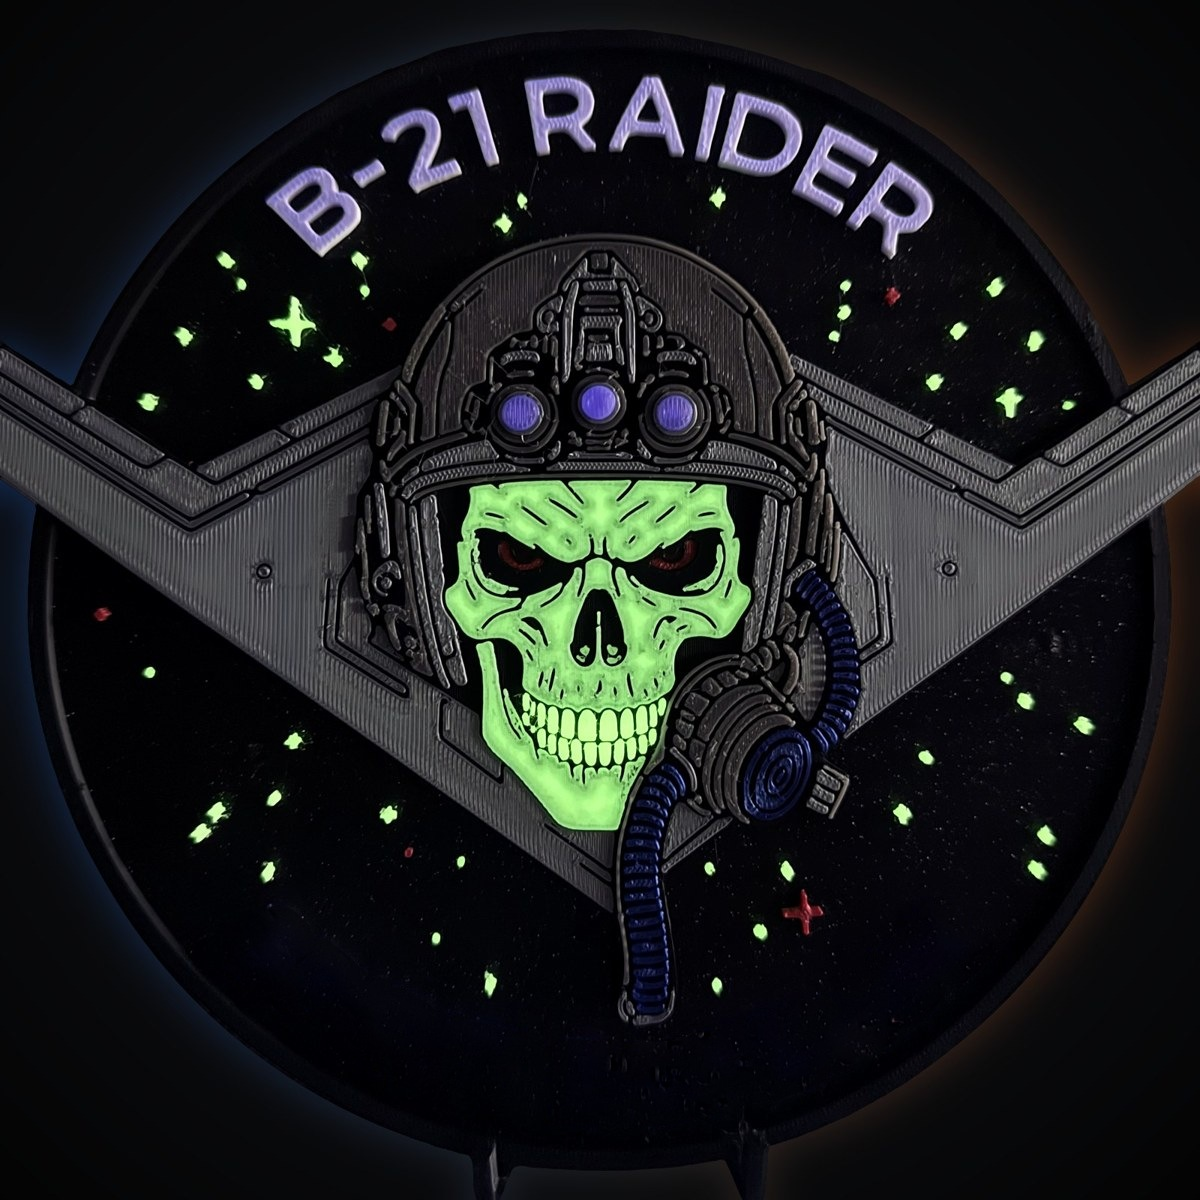
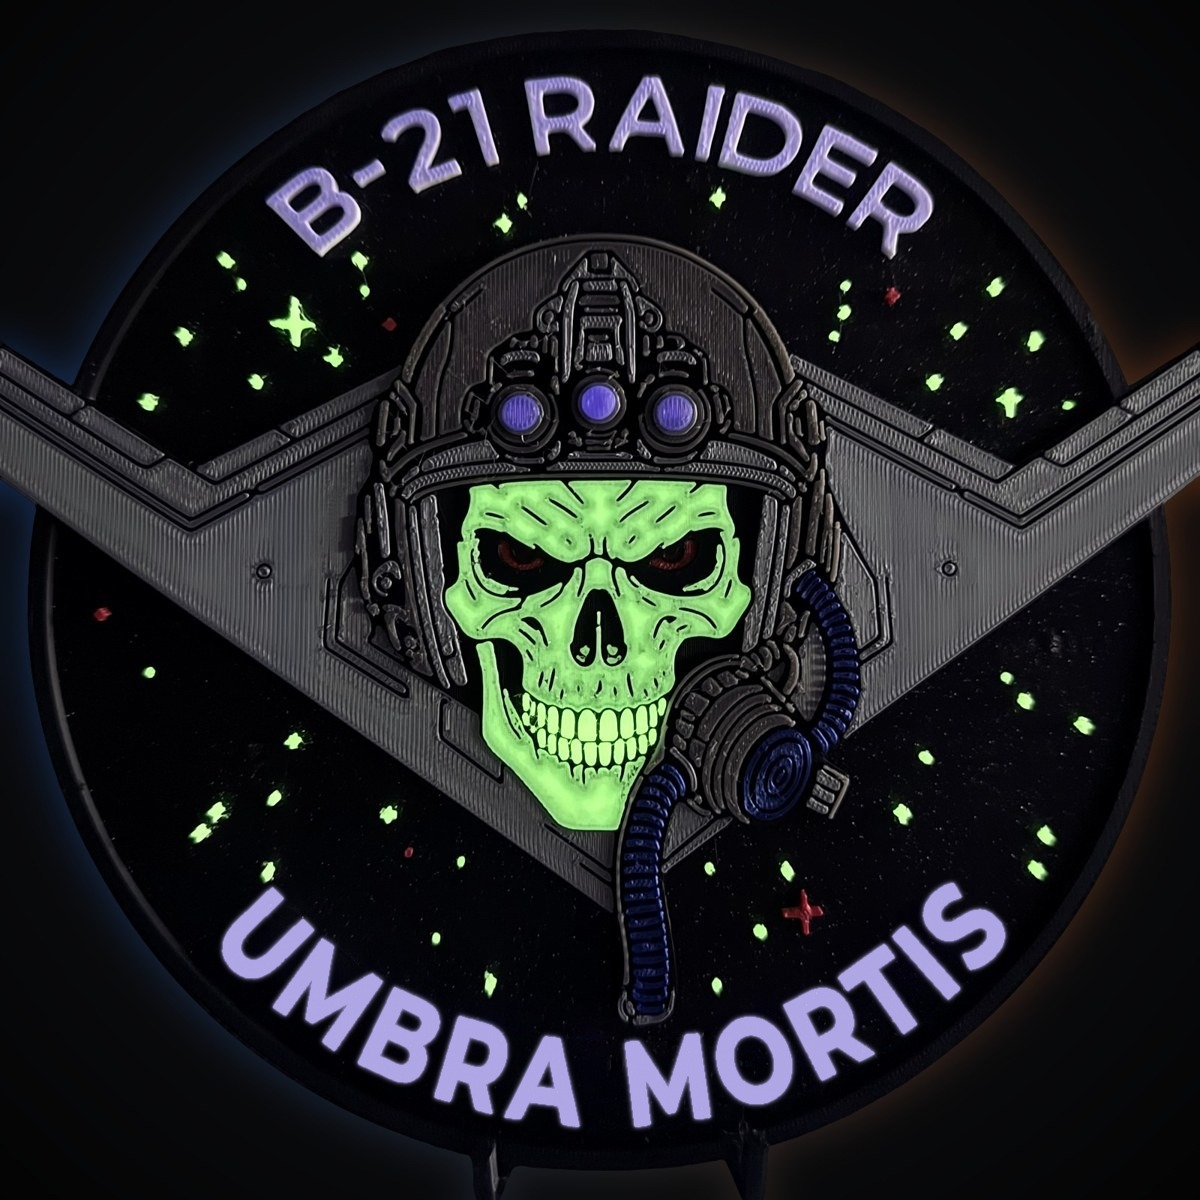
Composite Latin mottos into plaque photos; drop SVG previews
Replace SPIRIT DEFENSE in-place on cleaned plaque stills with Umbra Mortis (B-21), Ultio Insomnis (FQ-42), and Vigil Sine Somno (Maverick). Remove motto-preview gallery images.

Changed region(s): [[0.185, 0.7092, 0.8633, 0.9558]]

diff --git a/maverick/index.html b/maverick/index.html
@@ -73,7 +73,6 @@ footer .brand{margin-top:10px;color:#6b7180;letter-spacing:.06em}
     <h2>Gallery</h2>
     <div class="gallery" style="grid-template-columns:1fr;max-width:700px;margin:0 auto">
       <figure><img src="room-light-stand.jpg" width="900" height="1200" loading="lazy" alt="Maverick plaque on its display stand in room light"><figcaption>In room light, on its stand</figcaption></figure>
-      <figure><img src="motto-preview.jpg" width="1200" height="1173" loading="lazy" alt="Maverick plaque design with Vigil Sine Somno motto"><figcaption>New lettering: Vigil Sine Somno</figcaption></figure>
     </div>
   </section>
 

diff --git a/fq42/index.html b/fq42/index.html
@@ -69,13 +69,6 @@ footer .brand{margin-top:10px;color:#6b7180;letter-spacing:.06em}
     </ul>
   </section>
 
-  <section>
-    <h2>Gallery</h2>
-    <div class="gallery" style="grid-template-columns:1fr;max-width:700px;margin:0 auto">
-      <figure><img src="motto-preview.jpg" width="1200" height="1200" loading="lazy" alt="FQ-42 Vengeance plaque design with Ultio Insomnis motto"><figcaption>New lettering: Ultio Insomnis</figcaption></figure>
-    </div>
-  </section>
-
   <section class="contact" id="contact">
     <h2>Interested?</h2>
     <p>Tap Order to send me a quick order email. I'll reply to set up delivery.</p>

diff --git a/b21/index.html b/b21/index.html
@@ -74,7 +74,6 @@ footer .brand{margin-top:10px;color:#6b7180;letter-spacing:.06em}
     <h2>Gallery</h2>
     <div class="gallery" style="grid-template-columns:1fr;max-width:700px;margin:0 auto">
       <figure><img src="studio-glow.jpg" width="1200" height="1200" loading="lazy" alt="B-21 Raider plaque glowing under a blacklight"><figcaption>Glow-in-the-dark details</figcaption></figure>
-      <figure><img src="motto-preview.jpg" width="1200" height="977" loading="lazy" alt="B-21 Raider plaque design with Umbra Mortis motto"><figcaption>New lettering: Umbra Mortis</figcaption></figure>
     </div>
   </section>
 
